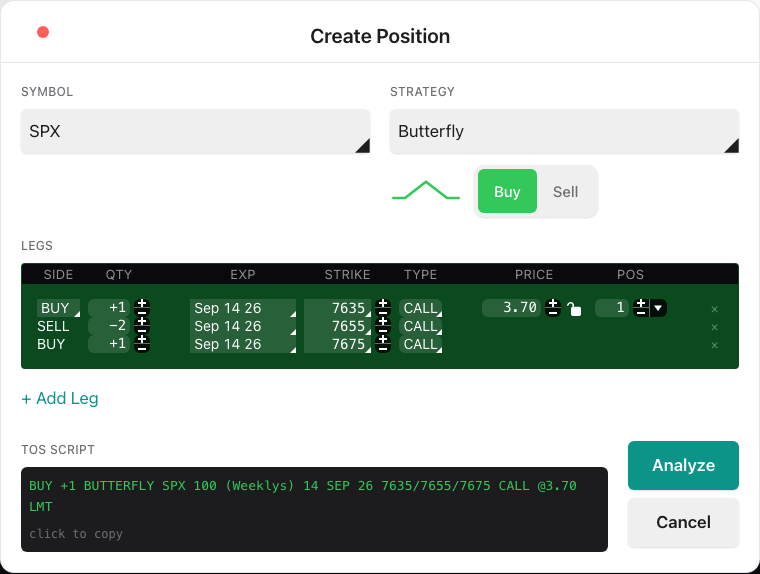
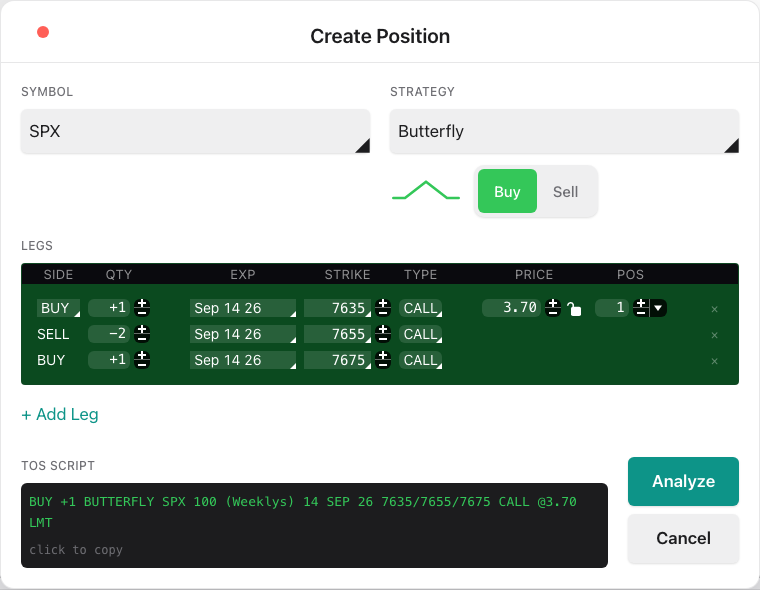
fix(dialog): 8px between leg rows, dialog-only
Row gap, 15px row inset, and header flush stay on PositionBuilder
containers. AnalyzerPositionsList and TosControls are untouched.

diff --git a/web/components/options-lab/PositionBuilder.tsx b/web/components/options-lab/PositionBuilder.tsx
@@ -363,6 +363,8 @@ export type PositionBuilderProps = {
 /** Dialog width is a constant. Height follows leg-row count only. */
 const PANEL_INSET = 20;
 const LEGS_PAD = 15;
+/** Dialog-only space between leg rows. Not on the card. */
+const LEGS_ROW_GAP = 8;
 /** Explicit gap after a field group — not leftover auto-distribution. */
 const LEGS_GROUP_GAP = 32;
 /**
@@ -378,13 +380,18 @@ function legsPad(opts: {
   last?: boolean;
   above?: boolean;
   below?: boolean;
+  between?: boolean;
   head?: boolean;
 }): CSSProperties {
   return {
     ...(opts.head ? { textAlign: "center" as const } : null),
     ...(opts.first ? { paddingLeft: LEGS_PAD } : null),
     ...(opts.last ? { paddingRight: LEGS_PAD } : null),
-    ...(opts.above ? { paddingTop: LEGS_PAD } : null),
+    ...(opts.above
+      ? { paddingTop: LEGS_PAD }
+      : opts.between
+        ? { paddingTop: LEGS_ROW_GAP }
+        : null),
     ...(opts.below ? { paddingBottom: LEGS_PAD } : null),
   };
 }
@@ -1917,7 +1924,7 @@ export default function PositionBuilder({
                 const isTop = row === 0;
                 const isBot = row === orderedLegs.length - 1;
                 const legSide = leg.side === "long" ? "BUY" : "SELL";
-                const rowPad = { above: isTop, below: isBot };
+                const rowPad = { above: isTop, below: isBot, between: !isTop };
                 const valueField =
                   "inline-flex h-[18px] items-center justify-end rounded-sm " +
                   FIELD_FILL +

diff --git a/web/lib/options-lab/dlgHig.test.ts b/web/lib/options-lab/dlgHig.test.ts
@@ -174,6 +174,7 @@ test("AT-DLG-21 legs table sizes to content; no auto-distribution", () => {
   assert.doesNotMatch(builder, /w-full table-fixed/);
   assert.doesNotMatch(builder, /const COLS/);
   assert.match(builder, /LEGS_PAD = 15/);
+  assert.match(builder, /LEGS_ROW_GAP = 8/);
   assert.match(builder, /LEGS_GROUP_GAP = 32/);
   const surface = builder.slice(
     builder.indexOf("data-testid=\"builder-legs-surface\""),
